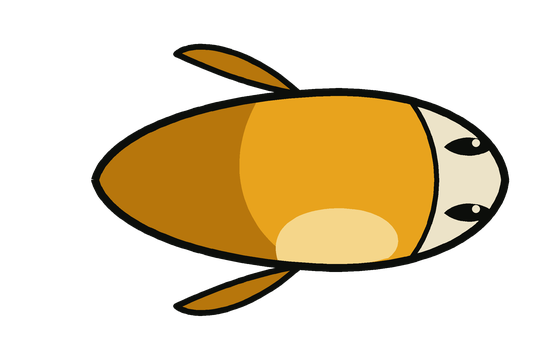
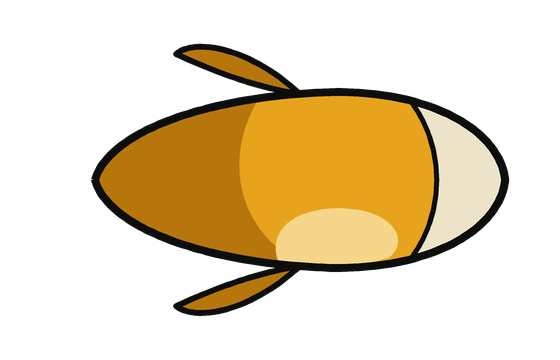
Fish redo: eyes removed, tail redrawn as flowing three-lobe fan

Changed region(s): [[0.7893, 0.55, 0.8804, 0.6417], [0.7893, 0.3667, 0.8804, 0.4583]]

diff --git a/tools/paint_sprites.py b/tools/paint_sprites.py
@@ -132,51 +132,48 @@ def fish_body():
     # ink outline — bold, uniform
     d.line(sil + [sil[0]], fill=INK, width=int(8 * SS), joint="curve")
 
-    # almond ink eyes on the cream face — symmetric, angled forward
-    for side in (-1, 1):
-        cx, cy = 470, 180 + side * 33
-        eye = path(
-            [(cx - 26, cy), (cx - 12, cy - 14), (cx + 14, cy - 11), (cx + 24, cy)],
-            [(cx + 24, cy), (cx + 12, cy + 11), (cx - 12, cy + 12), (cx - 26, cy)],
-            n=24)
-        d.polygon(eye, fill=INK)
-        gx, gy = S_(cx + 6), S_(cy - 4)
-        r = S_(3.8)
-        d.ellipse([gx - r, gy - r, gx + r, gy + r], fill=BONE)
-
     save(img, "fish-body.png", W, H)
 
 
 def fish_tail():
-    # 400x360, pivot at (56,180); blades flow to +x (page rotates it behind body)
+    # 400x360, pivot at (56,180); one flowing fan, three soft lobes
     W, H = 400, 360
     img, d = canvas(W, H)
 
-    for side in (-1, 1):
-        yb = 180
-        blade = path(
-            [(56, yb), (120, yb + side * 10), (230, yb + side * 40), (330, yb + side * 128)],
-            [(330, yb + side * 128), (350, yb + side * 60), (300, yb + side * 26), (250, yb + side * 18)],
-            [(250, yb + side * 18), (180, yb + side * 8), (100, yb + side * 2), (56, yb)],
-            n=36)
-        d.polygon(blade, fill=FISH)
-        # hard shade streak inside the blade, following its curve
-        streak = path(
-            [(90, yb + side * 6), (180, yb + side * 20), (260, yb + side * 48), (316, yb + side * 106)],
-            [(316, yb + side * 106), (300, yb + side * 60), (250, yb + side * 34), (180, yb + side * 22)],
-            [(180, yb + side * 22), (140, yb + side * 14), (105, yb + side * 8), (90, yb + side * 6)],
-            n=28)
-        d.polygon(streak, fill=FISH_SHADE)
-        d.line(blade + [blade[0]], fill=INK, width=int(7 * SS), joint="curve")
+    fan = path(
+        # upper edge sweeping out
+        [(56, 176), (140, 118), (240, 84), (322, 80)],
+        # top lobe trailing edge curling into the first notch
+        [(322, 80), (332, 122), (312, 142), (286, 152)],
+        # notch out to the middle lobe tip
+        [(286, 152), (330, 158), (354, 170), (356, 180)],
+        # mirror: middle lobe back to second notch
+        [(356, 180), (354, 190), (330, 202), (286, 208)],
+        # second notch out to bottom lobe tip
+        [(286, 208), (312, 218), (332, 238), (322, 280)],
+        # lower edge flowing back to the pivot
+        [(322, 280), (240, 276), (140, 242), (56, 184)],
+        n=32)
+    d.polygon(fan, fill=FISH)
 
-    # peduncle wedge at the pivot (tucks under the body)
-    hub = path(
-        [(30, 160), (60, 150), (86, 162), (92, 180)],
-        [(92, 180), (86, 198), (60, 210), (30, 200)],
-        [(30, 200), (44, 180), (44, 180), (30, 160)],
-        n=20)
-    d.polygon(hub, fill=FISH)
-    d.line(hub + [hub[0]], fill=INK, width=int(6 * SS), joint="curve")
+    # shade ribbons following the flow into the upper and lower lobes
+    for sgn in (-1, 1):
+        rib = path(
+            [(70, 180 + sgn * 4), (150, 180 + sgn * 34), (230, 180 + sgn * 56), (300, 180 + sgn * 84)],
+            [(300, 180 + sgn * 84), (280, 180 + sgn * 52), (210, 180 + sgn * 34), (140, 180 + sgn * 20)],
+            [(140, 180 + sgn * 20), (110, 180 + sgn * 12), (85, 180 + sgn * 6), (70, 180 + sgn * 4)],
+            n=26)
+        d.polygon(rib, fill=FISH_SHADE)
+
+    # light ribbon into the middle lobe
+    mid = path(
+        [(90, 180), (180, 178), (260, 176), (330, 178)],
+        [(330, 178), (260, 186), (180, 186), (90, 182)],
+        n=24)
+    d.polygon(mid, fill=BELLY)
+
+    # ink outline
+    d.line(fan + [fan[0]], fill=INK, width=int(7 * SS), joint="curve")
 
     save(img, "fish-tail.png", W, H)
 
